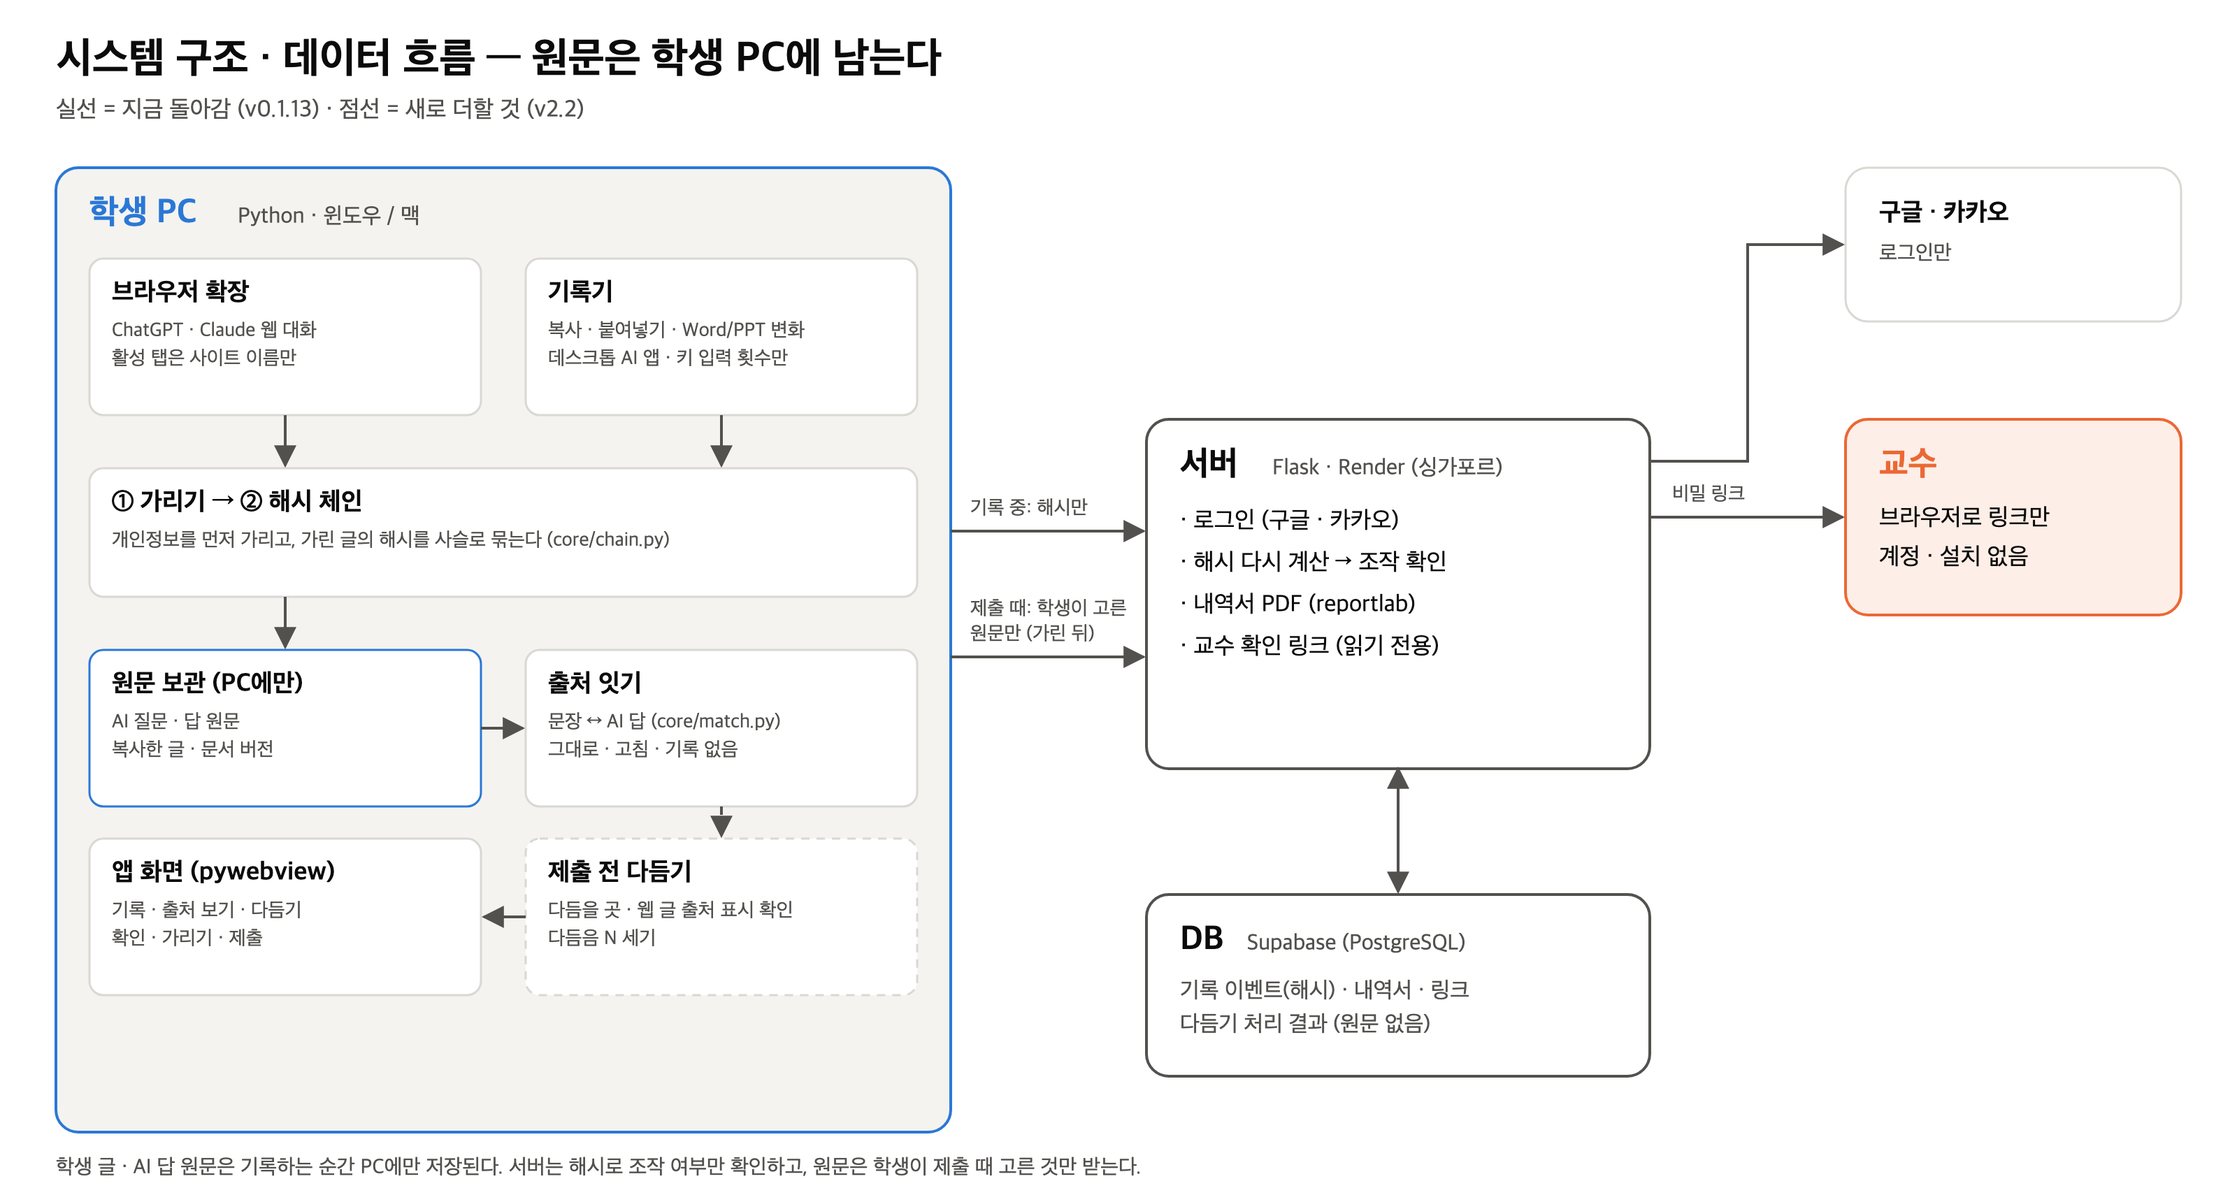
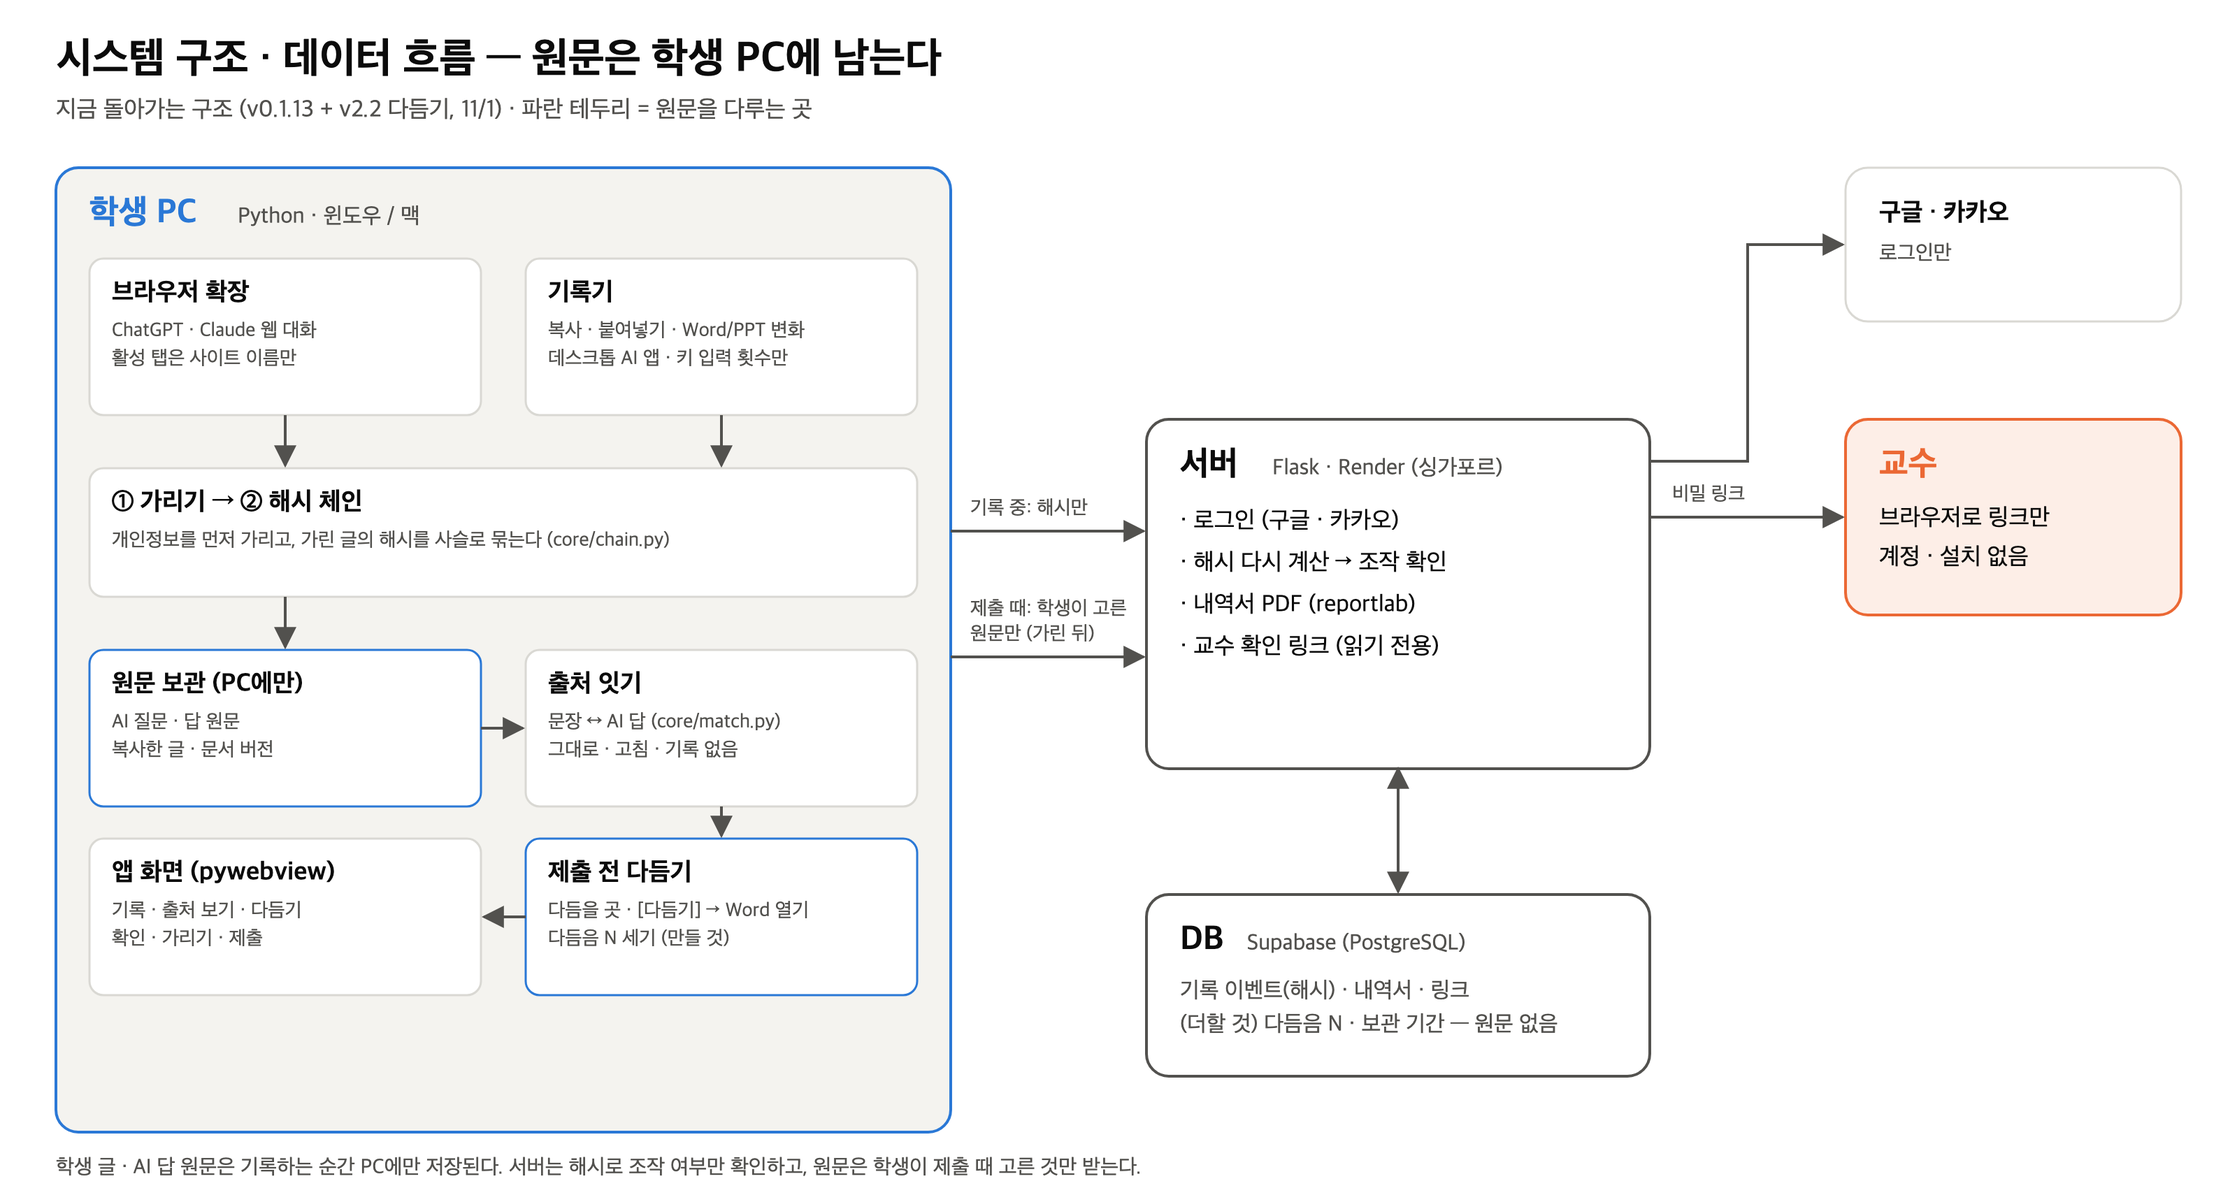
김용현 발표 준비 가이드 (1 · 5 · 6 · 7) · 그림: 다듬기를 지금 돌아가는 것으로 (PR #93 반영)

Changed region(s): [[0.0312, 0.0616, 0.3438, 0.1233], [0.5312, 0.832, 0.6875, 0.8628], [0.2812, 0.7395, 0.375, 0.8012]]

diff --git a/2-디자인/발표 그림/figs.py b/2-디자인/발표 그림/figs.py
@@ -46,7 +46,7 @@ def path(d, dash=False, color=INK2):
 def user_flow():
     W, H = 1600, 760
     b = text(40, 52, "User Flow — 교수는 계정도 설치도 없다", 30, weight=700)
-    b += text(40, 84, "파란 칸 = 학생 · 주황 칸 = 교수 · 점선 = 새로 더할 것 (제출 전 다듬기)", 17, INK2)
+    b += text(40, 84, "파란 칸 = 학생 · 주황 칸 = 교수 · 굵은 파란 칸 = v2.2에서 더한 제출 전 다듬기", 17, INK2)
     # 레인
     lanes = [("교수", 120, ORANGE), ("학생", 330, BLUE)]
     for name, y, c in lanes:
@@ -71,15 +71,15 @@ def user_flow():
     b += step(640, y1, "④", "출처 보기", ["문장마다 어디서 왔나", "다듬을 곳 표시"], BLUE, BLUE_BG)
     b += step(890, y1, "⑥", "확인 · 가리기 · 제출", ["이어진 곳 맞다/아니다", "내역서 1장 + 링크 첨부"], BLUE, BLUE_BG)
     # 고쳐 쓰기 분기
-    b += box(640, 560, BW, 120, SURF, BLUE, True, sw=2)
+    b += box(640, 560, BW, 120, SURF, BLUE, sw=3)
     b += text(656, 590, "⑤  제출 전 다듬기", 17, INK, 700)
     b += lines(656, 618, ["웹 글 → [인용 달기]", "AI 답 그대로 → [직접 다듬기]", "AI가 대신 고치지 않음"], 14, INK2, 20)
     # 화살표
     b += path(f"M245,262 L245,400")                     # ①→②
     b += arrow(350, y1 + 46, 388, y1 + 46)            # ②→③
     b += arrow(600, y1 + 46, 638, y1 + 46)            # ③→④
-    b += arrow(745, y1 + BH, 745, 558, dash=True)     # ④→⑤
-    b += path(f"M850,620 L870,620 L870,{y1+70} L888,{y1+70}", dash=True)  # ⑤→⑥
+    b += arrow(745, y1 + BH, 745, 558)     # ④→⑤
+    b += path(f"M850,620 L870,620 L870,{y1+70} L888,{y1+70}")  # ⑤→⑥
     b += arrow(850, y1 + 30, 888, y1 + 30)            # ④→⑥ (걸린 것 없음)
     b += text(870, y1 - 10, "다듬을 곳 없음", 13, MUTED, 400, "middle")
     b += path(f"M1100,{y1} L1100,330 L1185,330 L1185,264")  # ⑥→⑦
@@ -94,7 +94,7 @@ def user_flow():
 def architecture():
     W, H = 1600, 860
     b = text(40, 52, "시스템 구조 · 데이터 흐름 — 원문은 학생 PC에 남는다", 30, weight=700)
-    b += text(40, 84, "실선 = 지금 돌아감 (v0.1.13) · 점선 = 새로 더할 것 (v2.2)", 17, INK2)
+    b += text(40, 84, "지금 돌아가는 구조 (v0.1.13 + v2.2 다듬기, 11/1) · 파란 테두리 = 원문을 다루는 곳", 17, INK2)
 
     # 학생 PC
     b += box(40, 120, 640, 690, PANEL, BLUE, sw=2, r=16)
@@ -112,13 +112,13 @@ def architecture():
     b += comp(64, 335, 592, 92, "① 가리기 → ② 해시 체인", ["개인정보를 먼저 가리고, 가린 글의 해시를 사슬로 묶는다 (core/chain.py)"])
     b += comp(64, 465, 280, 112, "원문 보관 (PC에만)", ["AI 질문 · 답 원문", "복사한 글 · 문서 버전"], stroke=BLUE)
     b += comp(376, 465, 280, 112, "출처 잇기", ["문장 ↔ AI 답 (core/match.py)", "그대로 · 고침 · 기록 없음"])
-    b += comp(376, 600, 280, 112, "제출 전 다듬기", ["다듬을 곳 · 웹 글 출처 표시 확인", "다듬음 N 세기"], dash=True)
+    b += comp(376, 600, 280, 112, "제출 전 다듬기", ["다듬을 곳 · [다듬기] → Word 열기", "다듬음 N 세기 (만들 것)"], stroke=BLUE)
     b += comp(64, 600, 280, 112, "앱 화면 (pywebview)", ["기록 · 출처 보기 · 다듬기", "확인 · 가리기 · 제출"])
     b += arrow(204, 297, 204, 333)
     b += arrow(516, 297, 516, 333)
     b += arrow(204, 427, 204, 463)
     b += arrow(344, 521, 374, 521)
-    b += arrow(516, 577, 516, 598, dash=True)
+    b += arrow(516, 577, 516, 598)
     b += arrow(376, 656, 346, 656)
 
     # 서버
@@ -131,7 +131,7 @@ def architecture():
     b += box(820, 640, 360, 130, SURF, INK2, sw=2, r=16)
     b += text(844, 680, "DB", 24, INK, 700)
     b += text(892, 680, "Supabase (PostgreSQL)", 16, INK2)
-    b += lines(844, 714, ["기록 이벤트(해시) · 내역서 · 링크", "다듬기 처리 결과 (원문 없음)"], 16, INK2, 24)
+    b += lines(844, 714, ["기록 이벤트(해시) · 내역서 · 링크", "(더할 것) 다듬음 N · 보관 기간 — 원문 없음"], 16, INK2, 24)
     b += f'<line x1="1000" y1="550" x2="1000" y2="638" stroke="{INK2}" stroke-width="2" marker-end="url(#arr)" marker-start="url(#arr)"/>\n'
 
     # 교수

diff --git a/1-기획/12-김용현 발표 준비 가이드 (2026-11-01).md b/1-기획/12-김용현 발표 준비 가이드 (2026-11-01).md
@@ -1,0 +1,134 @@
+# 김용현 발표 준비 가이드 — 요구 항목 1 · 5 · 6 · 7 (+ 표지 · PDF)
+
+> 맡은 장: **1 표지 · 2 ~ 3 문제 정의 · 9 시스템 · 10 DB · 11 개발 계획** · 발표 시간 합 약 2분 40초
+> 근거는 전부 기획서(`0-기획서 v2.0 (2026-10-28).md`, 내용은 v2.2)에 출처와 함께 있다. 장마다 "어디서 가져오나"를 적어 둠.
+> 그림 3개는 이미 있음 → `2-디자인/발표 그림/` (설문 `4-survey` · 구조도 `2-architecture` · ERD `3-erd`)
+
+---
+
+## 0. 상진이 해 놓은 것 (11/1 새벽 · PR #93 머지)
+
+**실제 앱에 "제출 전 다듬기"가 들어갔다.** 내 브랜치에도 가져옴.
+- 출처 보기에 `[전체 | 다듬을 곳 N]` · 오른쪽 "내기 전에" [다듬기] [그대로 둠] / 웹 글은 [인용 달기] [다듬기]
+- [다듬기] → `POST /local/refine`: 이 과제 기록을 이어서 켜고 결과물 Word를 연다 → 돌아오면 다시 읽음
+- 다듬을 곳 = 제목이 아닌 **6어절 이상** 문장 중 ① AI 답과 일치 ② 출처 표시 없이 붙인 다른 곳 글
+- 기록 다시 보기에 "기록 밖에서 바뀐 글" · 홈 정리 · 여러 과제 지우기
+- **아직:** "다듬음 N" 세기 — **내 몫**으로 적혀 있음 (발표 뒤)
+
+**내 장에 주는 영향**
+- 11장 "지금 상태"에 **실제로 돌아간다**고 쓸 수 있다 (가장 강한 근거). 상진 앱 화면 캡처 1장 빌려 오기
+- 9장 구조도는 다듬기를 "지금 돌아감"으로 고쳐 둠
+- ⚠ `source.html` 주석에 "6어절 = 연구윤리 지침의 6어절 이상 연속 일치"라고 돼 있는데 **지침 원문엔 숫자가 없다** (카피킬러가 그렇게 설명할 뿐). 화면엔 안 나오니 급하진 않지만 상진에게 말해 두기. 발표에서 물으면: **"짧은 문장은 우연히 겹치기 쉬워서 6어절 미만은 뺐다"** — 표절 기준이라고 하지 않는다
+
+---
+
+## 1. 표지 (10초)
+
+- 제목: **Trace — AI 사용 공개, 손 대신 기록으로**
+- 한 줄: AI 답과 참고한 글을 어떻게 썼는지 기록하고, 제출 전에 그대로 가져온 곳을 학생이 다듬게 한 뒤, 교수에게 한 장으로 공개한다.
+- 팀명 · 김용현 · 박상진 · **피그마 링크 QR** (상진에게 링크 받아서)
+- 말: "AI를 허용하는 수업에서 대화 내역 제출을 대신하는 Trace입니다."
+
+---
+
+## 2장. 문제 — 학교는 이미 AI 사용 공개를 요구한다 (25초)
+
+**한 문장:** 미래 이야기가 아니라, 지금 대학과 교수들이 대화 내역을 내라고 하고 있다.
+
+| 넣을 것 | 어디서 |
+|---|---|
+| 숫자 크게: 가이드라인 운영 대학 **30 → 56곳** (2년) · 그중 **32곳**이 과제에 AI 사용 공개 요구 | 기획서 2.0 · 머니투데이 (대교협 총장 설문 2026.2) |
+| 사례 카드 4개: **명지대** 과제마다 대화 로그 증빙서 필수 (2026.8) · **연세대 · 이화여대** 명령어 · 도움받은 내용 제출 · **한양대 한 수업** 질문 내역 전부 + 복붙 감점 · **교육부 가이드라인** 8/24 각 대학 안내 | 기획서 2.1 (가)(나) · 2.2 |
+
+- 대본: "가이드라인을 둔 대학이 2년 만에 56곳이 됐고, 그중 32곳이 과제에 AI 사용을 밝히라고 합니다. 명지대는 과제마다 대화 로그 증빙서가 필수이고, 한양대 한 수업은 질문 내역을 전부 내고 복붙하면 감점합니다."
+- 5주차 제안서와 겹치니 **짧게.** 숫자 1줄 + 카드 4개 이상 넣지 않기
+
+## 3장. 인사이트 — 받는 건 있는데, 확인 방법이 손뿐이다 (25초)
+
+**한 문장:** 내라고는 하는데, 받은 걸 확인하는 방법이 캡처 대조뿐이다. 그리고 학생은 감시를 걱정한다.
+
+| 넣을 것 | 어디서 |
+|---|---|
+| **사용자 조사 결과:** 학생 설문 34명 그림 — 켜는 이유 1위 "받는 쪽이 요구하면" 20명 · 걸림돌 1위 "감시받는 느낌" 15명 | `4-survey.png` · `7-학생 설문 결과 34명` |
+| 손 방식의 비용 3줄: 교수 = 한 줄씩 대조 · 학생 = 캡처 모으기 · 둘 다 = 안 낸 대화는 모름 | 기획서 2.4 |
+| 사고 1줄: 연세대 AI 집단 부정행위(2025.11)도 **교수가 학생 영상을 직접 돌려 보며** 잡음 | 기획서 2.1 (다) · 뉴시스 |
+| **해결 필요성 → 우리 결정:** 교수가 요구하는 길(B2B)로 · 감시처럼 안 보이게 · 판정 없이 사실만 | 설문 → 기획서 3절 |
+
+- 대본: "설문에서 학생들이 켜겠다는 이유 1위는 '받는 쪽이 요구하면', 꺼리는 이유 1위는 '감시받는 느낌'이었습니다. 그래서 교수가 과제 요건으로 거는 길로 가고, 원문은 학생 PC에 남기는 구조로 정했습니다."
+- 설문 밑에 작게: "공학 · 컴퓨터 18명, 2학년 19명으로 치우침 — 경향만" (먼저 말하면 질문을 막는다)
+
+**받을 질문**
+- "교수가 정말 원해? 교수 인터뷰는?" → "한양대 수업처럼 이미 요구하는 사례가 근거입니다. 교수 인터뷰는 아직 못 했고, 12주 교수 시연에서 '다음 과제에 거시겠냐'를 확인합니다 (기획서 11절 검증 3)." — **했다고 하지 않기**
+- "설문 34명은 적지 않나?" → "경향을 보는 정도로 쓰고, 12주 실제 사용 테스트로 확인합니다."
+
+---
+
+## 9장. 시스템 설계 — 원문은 학생 PC에 남는다 (30초)
+
+**한 문장:** 원문은 학생 PC에 남고, 서버에는 해시와 학생이 고른 것만 간다.
+
+**요구 문구 "Frontend – Backend – Database"에 맞춰 이름을 붙여 준다** (그림 옆 작은 표):
+
+| | 무엇 | 기술 |
+|---|---|---|
+| Frontend | 학생: PC 앱 화면 · 교수: 내역서 웹 화면 | HTML/JS (pywebview) · 브라우저 |
+| Backend | PC 기록기 · 출처 잇기 · 다듬기 (로컬) / 서버 (로그인 · 해시 확인 · 내역서 PDF · 링크) | Python · Chrome 확장 · Flask · Render(싱가포르) · reportlab · 구글/카카오 로그인 |
+| Database | 서버: 해시 · 내역서 · 링크 / PC: 원문 파일 | Supabase (PostgreSQL) · PC 로컬 파일 |
+
+- 그림: `2-architecture.png` (11/1 고침 — 다듬기를 지금 돌아가는 것으로)
+- **데이터 흐름 3단계로 말하기:** ① 기록 중 → 서버엔 **해시만** ② 제출 때 → 학생이 고른 원문만 (가린 뒤) → 서버가 해시로 다시 계산해 **조작 확인** ③ 교수 → 비밀 링크로 읽기만
+- 대본: "AI 답과 학생 글의 원문은 기록하는 순간 학생 PC에만 저장됩니다. 서버에는 해시만 가고, 제출할 때 학생이 고른 원문이 오면 서버가 해시로 다시 계산해 바뀐 게 없는지 확인합니다. 교수는 계정 없이 링크로 읽기만 합니다."
+
+**받을 질문**
+- "해시가 뭐야 / 왜 써?" → "글의 지문입니다. 원문 없이도 나중에 온 글이 기록 때와 같은지 확인할 수 있습니다."
+- "서버가 해외인데?" → "Render 싱가포르입니다. 실제 수업 전에 국외 이전 동의 문구를 넣습니다 (11장 예상 문제)."
+
+## 10장. DB 설계 — 지금 테이블에 2가지만 더한다 (30초)
+
+**한 문장:** 지금 테이블에 다듬기와 보관 기간 2가지만 더하면 v2.2가 된다.
+
+- 그림: `3-erd.png`
+- **말할 줄기 하나:** 학생(`users`) → 과제(`works`) → 기록 한 번(`sessions`) → 기록 이벤트(`events`, **원문 대신 해시**) / 과제 → 내역서(`statements`) → 보여 준 원문 · 출처 결정 · 가린 것 · 교수 링크
+- 더하는 것: **`checks`** (다듬을 곳 종류 · 학생 처리 → "다듬음 N", 원문 없음) · **`statements.retain_until`** (보관 기간)
+- 다음 단계(점선): `assignments` 30명 모아 보기 · `works.assignment_id`
+- 표 하나하나 설명하지 않는다. 쉬운 풀이가 필요하면 → 대화 기록의 "ERD 표 풀이" (users · tokens · works · sessions · events · statements · messages · links · redactions · shares · checks)
+- 슬라이드에서 빼도 되는 것: `batches · contexts` (`contexts`는 옛 기능 흔적, 지금 기록기가 안 씀) · 로그인 보조 표 3개 → 넣으면 선만 많아짐
+
+**받을 질문**
+- "로그인 토큰을 왜 JWT 말고 DB에?" → "학생 기록을 다뤄서 '이 기기 연결 끊기'가 돼야 합니다. JWT는 서버가 못 끊습니다." (`server/db.py` 주석)
+- "교수가 원문을 어떻게 봐?" → "학생이 제출 때 고른 질문 · 답만 `messages`에 오고, 서버가 해시로 기록과 맞는지 확인합니다."
+- "가린 건?" → "어느 기록을 가렸는지만 남고 내용은 서버에 안 옵니다 (`redactions`)."
+
+## 11장. 개발 계획 — 이미 돌아가는 것 위에 더한다 (40초)
+
+**한 문장:** v0.1.13이 이미 돌아가고, v2.2 다듬기도 들어갔다. 남은 것과 어려운 곳을 안다.
+
+| 넣을 것 | 내용 |
+|---|---|
+| 지금 상태 | ✅ 윈도우 · 맥 기록기 · 브라우저 확장 · 출처 잇기 · 해시 체인 · 서버 · 교수 링크 · 내역서 PDF · 구글/카카오 로그인 · **v2.2 다듬을 곳 화면 + Word로 다듬기 (11/1, PR #93)** · 기록 밖에서 바뀐 글 |
+| 일정 | 중간발표 → **2주:** "다듬음 N" · `checks` · 내역서 맨 위 한 줄 · 실사용 전 필수 3개 → **12주:** 실제 학생 · 교수 사용 테스트 · 교수 시연 → **13주:** 수정 → **14주:** 최종 발표 |
+| R&R (개발) | 김용현: 서버 · 교수 화면(내역서) · 제출 전 다듬기 · 교수 인터뷰 / 박상진: 기록기 · 확장 · 기록 밖 변경 · 작성 모양 · 학생 인터뷰 (기획서 13절) |
+| 예상 문제 → 해결 | 아래 표에서 3 ~ 4개 |
+
+| 예상 기술 문제 | 해결 |
+|---|---|
+| 말을 다 바꿔 쓴 문장은 글자 비교로 못 잇는다 (`match.py` 시험: 겹침 0.07 ~ 0.16 < 직접 쓴 문장 최대 0.20) | "출처 기록 없음"으로 두고 **"직접 썼다"고 단정하지 않음** · 작성 모양은 사실로만 |
+| 작성 모양 연구는 영어 · 실험실 결과 | **한글 직접 쓰기 vs 옮겨 치기 직접 시험** (3일차에 내가 함 → 결과 한 줄) |
+| 윈도우에서 설치 후 안 열리는 문제 | 실사용 전 필수 — 교수가 지정하면 설치 오류 하나가 곧 민원 |
+| 서버 기록 읽기 주소 3개에 주인 확인 없음 · 국외(싱가포르) 서버 | 실사용 전 필수 — 로그인 · 주인 확인 추가 · 동의 문구 |
+| "감시" 우려 (설문 15명) | 동의 화면 · 원문은 PC · 언제든 멈춤 · 보내기 전에 고름 |
+
+- 대본: "기록, 출처 잇기, 내역서까지 이미 동작하고, 이번 주에 다듬기 화면도 들어갔습니다. 다음 2주는 다듬은 수 세기와 실제 수업 전에 꼭 고칠 세 가지, 12주에는 실제 학생과 교수에게 써 보게 합니다. 가장 큰 한계는 말을 다 바꿔 쓴 문장인데, 이건 '직접 썼다'고 단정하지 않고 '출처 기록 없음'으로 둡니다."
+
+---
+
+## 전체에서 하지 말 것
+
+국민대 49% (기획서 2.1 표에 있지만 원문 링크 못 찾음 → **2장 카드에 넣지 않기**) · "99% 잡는다" · "6어절이 표절 기준" · "표절률" · "판정한다" · "원래 다 공개해야 하는데 귀찮아서 안 한다"를 우리 주장으로 · 교수 인터뷰 · 실제 사용자 테스트를 **했다**는 말
+
+## 내 4일 체크리스트
+
+- [ ] **1일차:** 2 · 3장 (카드 4개 · 설문 그림 · 비용 3줄) · 9 · 10장 (그림 + Frontend/Backend/DB 표 + 줄기 한 줄)
+- [ ] **2일차:** 11장 · 표지 · **기능 일관성 확인** (상진 4 · 5장 기능 ↔ 내 9 · 10장, 뼈대 맨 아래 표) · 저녁 검토 1회차에서 과업 S1 ~ S5 · P1 ~ P5
+- [ ] **3일차:** 한글 타이핑 비교 (직접 쓰기 3번 · 보고 옮겨 치기 3번 → 멈춤 · 고침 횟수) · 내 장 대본 소리 내어 2번 · 저녁 검토 2회차
+- [ ] **4일차:** 오전 3회차 · PDF 합치기 (10장 내외, 글꼴 · 색 맞추기) · 피그마 링크를 시크릿 창에서 열어 보기 · 오후 5분 연습 2번 · 제출
